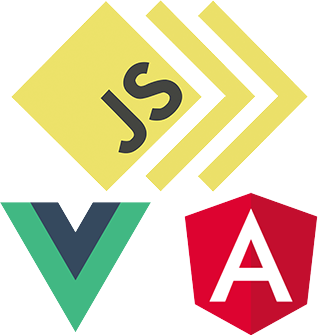
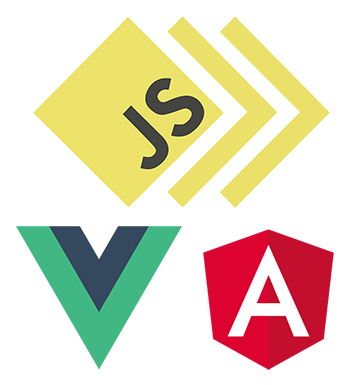
fix(mobile): remove center navbar text; adjust skills.png

diff --git a/src/App.vue b/src/App.vue
@@ -6,7 +6,7 @@
           <div class="navbar-brand">
             <img alt="Brand" @click="changeLocale()" :src="currentFlag">
           </div>
-          <p class="navbar-text lato lightier black font-size-12 text-center">{{currRoute}}</p>
+          <p class="navbar-text lato lightier black font-size-12">{{currRoute}}</p>
         </div>
       </div>
     </nav>
